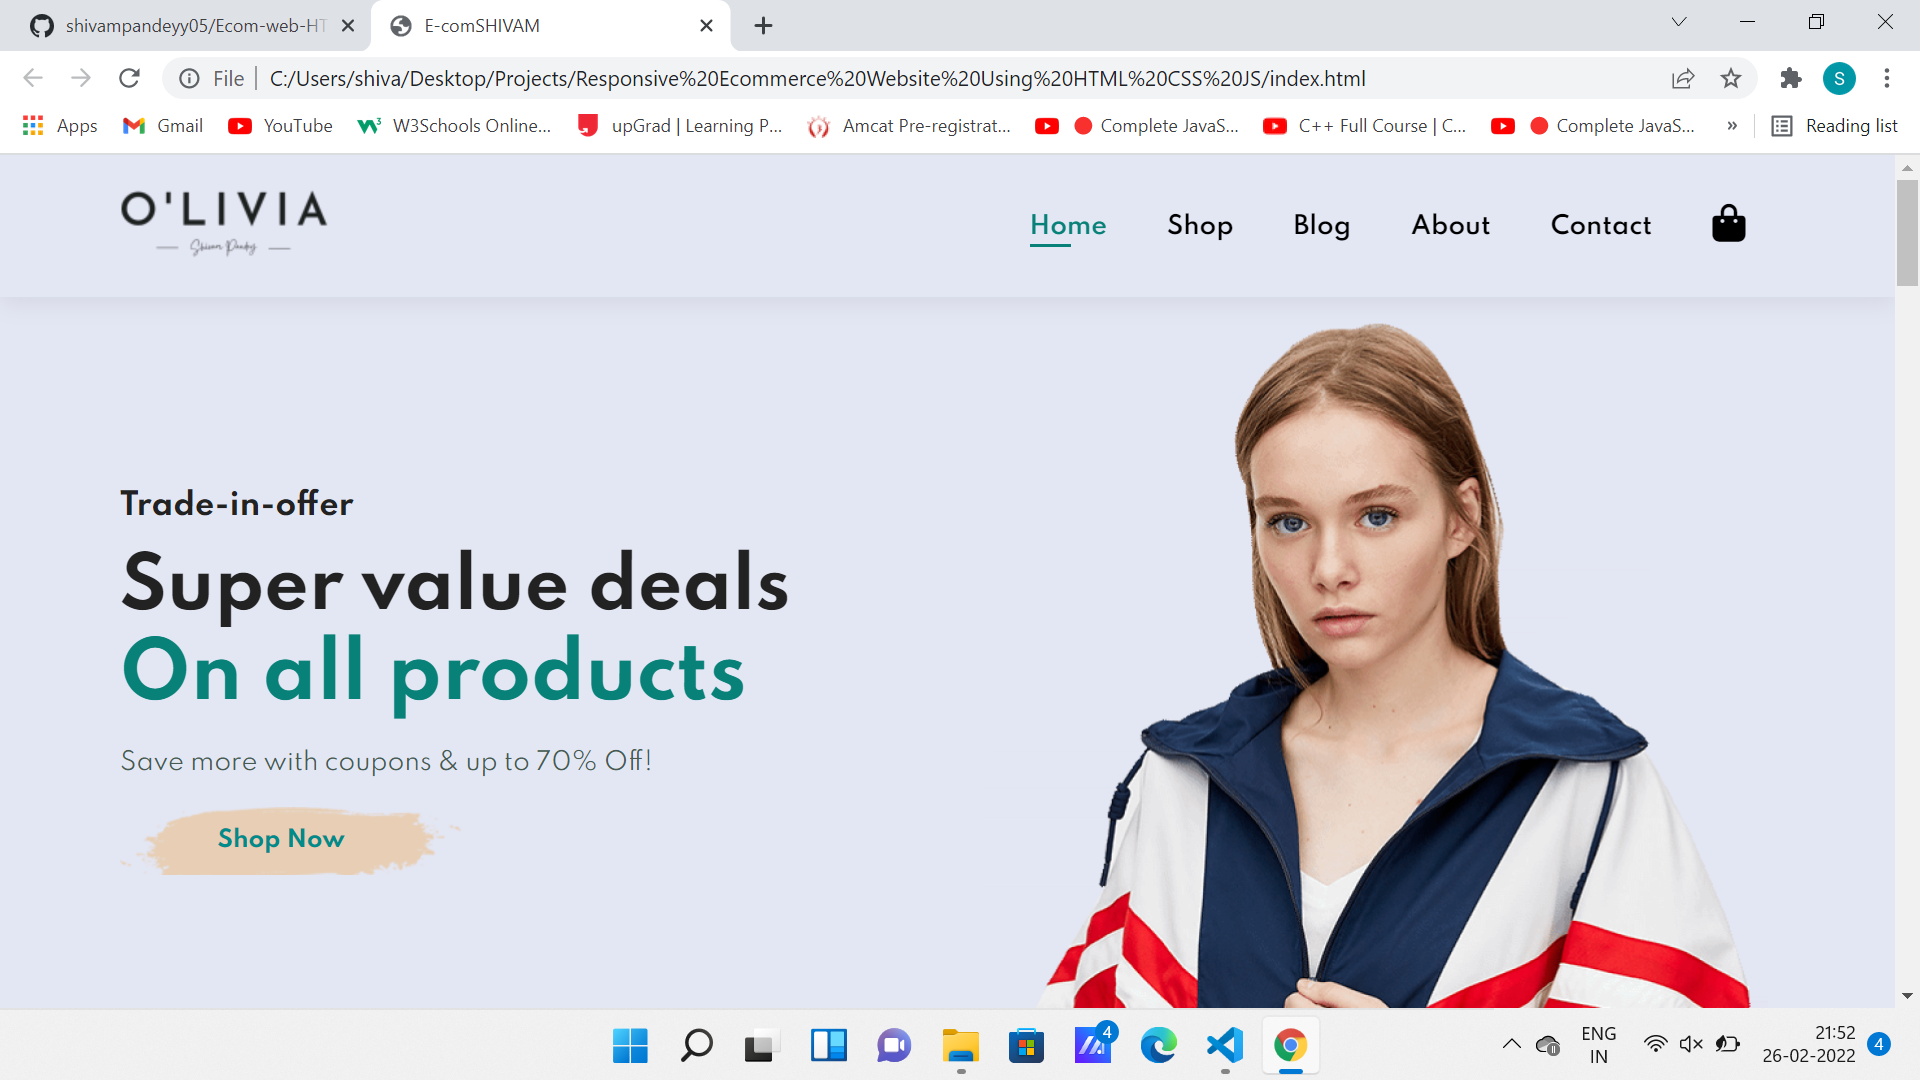
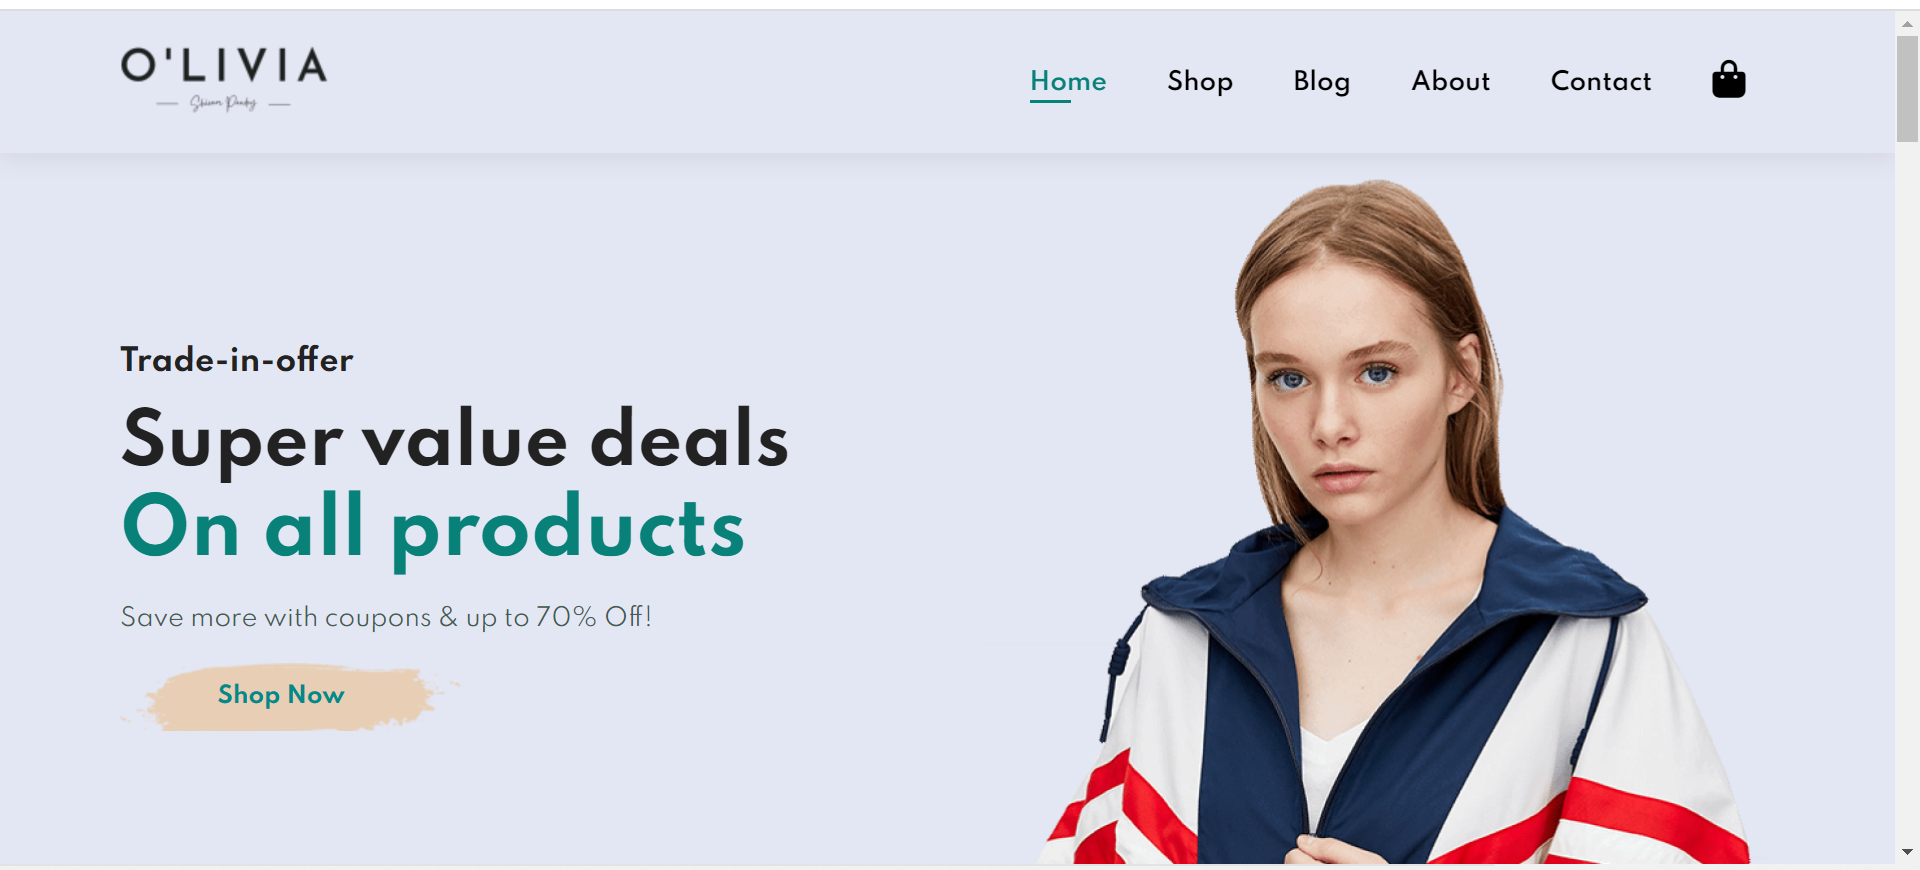
Modified

diff --git a/index.html b/index.html
@@ -12,7 +12,7 @@
 
 <body>
     <section id="header">
-        <a href=""><img src="img/logo3.png" alt="Logo"></a>
+        <a href=""><img src="img/logo1.png" alt="Logo"></a>
         <div>
             <ul id="navbar">
                 <li><a href="index.html" class="active">Home</a></li>
